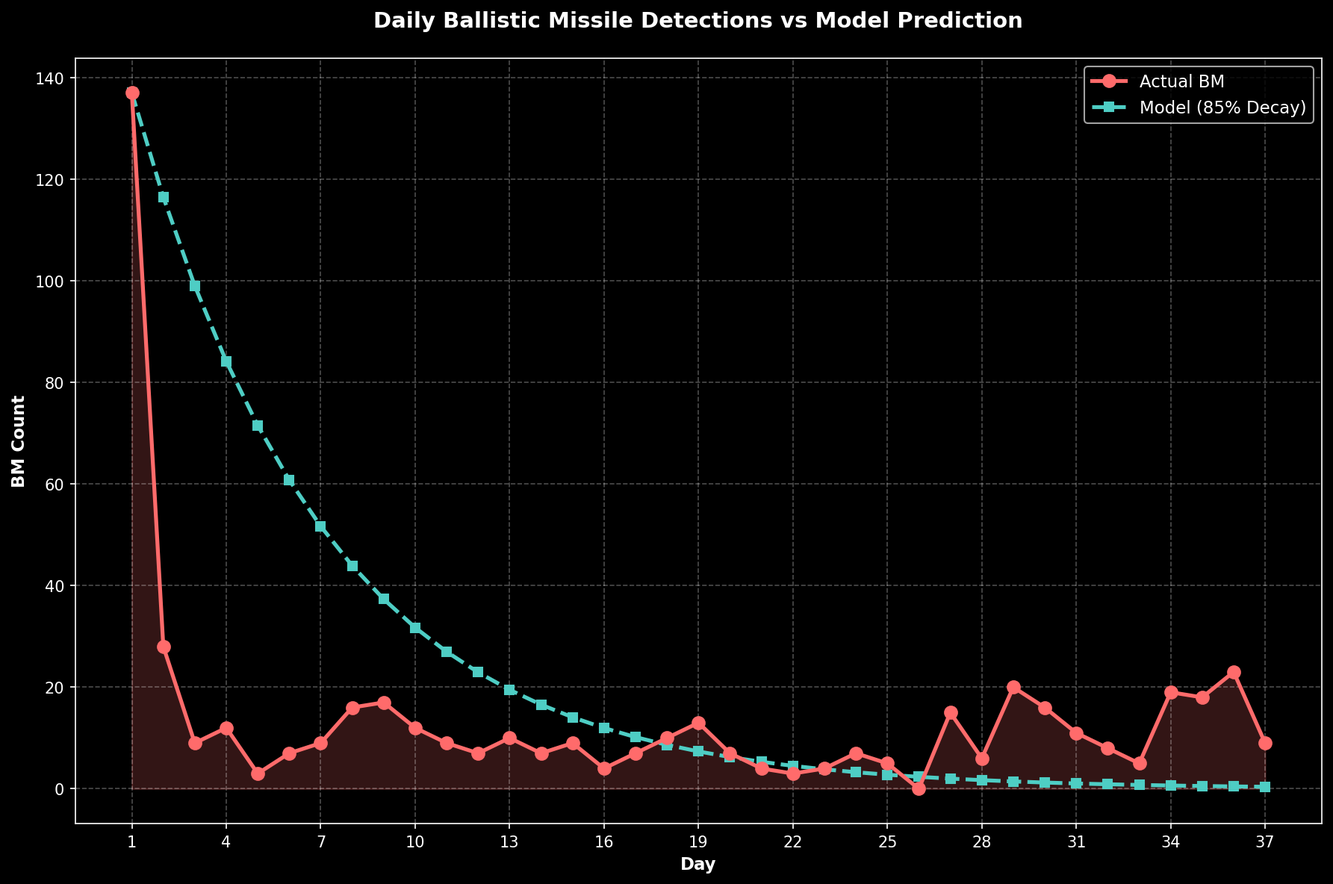
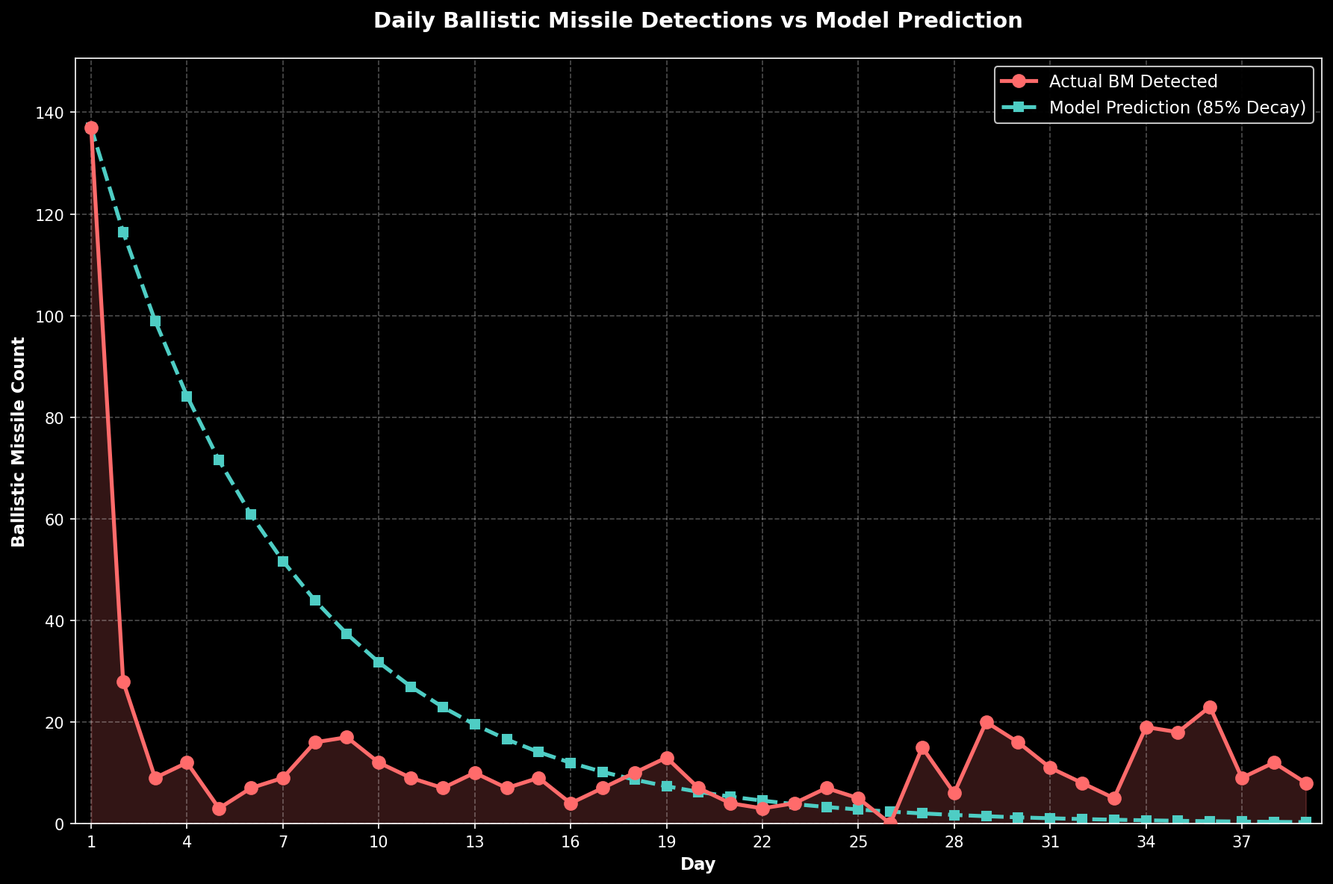
update

diff --git a/generate_divergence_charts.py b/generate_divergence_charts.py
@@ -27,13 +27,13 @@ CHART_CONFIG = {
 }
 
 # Output directory
-OUTPUT_DIR = Path("/sessions/bold-epic-hypatia/mnt/flea/gitbook-evacuation-model/charts")
+OUTPUT_DIR = Path("/sessions/focused-gallant-einstein/mnt/flea/gitbook-evacuation-model/charts")
 OUTPUT_DIR.mkdir(exist_ok=True)
 
 def load_data():
     """Load daily_data.json and run_log.json"""
-    daily_path = Path("/sessions/bold-epic-hypatia/mnt/flea/gitbook-evacuation-model/pipeline/daily_data.json")
-    run_log_path = Path("/sessions/bold-epic-hypatia/mnt/flea/gitbook-evacuation-model/pipeline/run_log.json")
+    daily_path = Path("/sessions/focused-gallant-einstein/mnt/flea/gitbook-evacuation-model/pipeline/daily_data.json")
+    run_log_path = Path("/sessions/focused-gallant-einstein/mnt/flea/gitbook-evacuation-model/pipeline/run_log.json")
 
     with open(daily_path, 'r') as f:
         daily_data = json.load(f)
@@ -364,7 +364,7 @@ def generate_lambda_evolution(run_log):
 
     ax.set_xlabel('Day', fontsize=CHART_CONFIG['label_size'], fontweight='bold')
     ax.set_ylabel('λ Median', fontsize=CHART_CONFIG['label_size'], fontweight='bold')
-    ax.set_title('Lambda Evolution - Queue Stability Across 34 Days',
+    ax.set_title(f'Lambda Evolution - Queue Stability Across {max(days)} Days',
                 fontsize=CHART_CONFIG['title_size'], fontweight='bold', pad=20)
 
     ax.grid(True, alpha=0.3, linestyle='--')
@@ -375,9 +375,9 @@ def generate_lambda_evolution(run_log):
     ax.set_xlim(min(days) - 0.5, max(days) + 0.5)
 
     plt.tight_layout()
-    plt.savefig(OUTPUT_DIR / 'lambda_evolution_day36.png', dpi=CHART_CONFIG['dpi'], bbox_inches='tight')
+    plt.savefig(OUTPUT_DIR / f'lambda_evolution_day{max(days)}.png', dpi=CHART_CONFIG['dpi'], bbox_inches='tight')
     plt.close()
-    print("Generated: lambda_evolution_day36.png")
+    print(f"Generated: lambda_evolution_day{max(days)}.png")
 
 def generate_bm_trajectory(daily_data):
     """Generate BM trajectory line chart with model overlay"""
@@ -453,7 +453,7 @@ def main():
         OUTPUT_DIR / 'divergence_heatmap.png',
         OUTPUT_DIR / 'model_vs_actual_bars.png',
         OUTPUT_DIR / 'divergence_scorecard.png',
-        OUTPUT_DIR / 'lambda_evolution_day34.png',
+        OUTPUT_DIR / 'lambda_evolution_day39.png',
         OUTPUT_DIR / 'bm_trajectory.png'
     ]
 

diff --git a/updates/daily-tracker.md b/updates/daily-tracker.md
@@ -2,7 +2,7 @@
 
 > 🌐 **EN** | [中文](../zh/updates/daily-tracker.md)
 
-**Last Updated: April 5, 2026 (Day 37)**
+**Last Updated: April 7, 2026 (Day 39)**
 
 This page tracks daily changes across all model inputs, compares model predictions against observed data, and flags breaches as they occur.
 
@@ -32,7 +32,7 @@ Stacked divergence shows lambda (purple) dominating total model error. Verdict t
 
 λ jumped from 0.47 → 1.70 on Day 3 (Hormuz closure), peaked at 2.71 on Day 9 (drone stockpile breach + BM rebound), then eased to a plateau ~2.1 from Day 10 onward. Days 12-18 showed remarkable stability at 2.14-2.16. Day 19 saw λ surge to 2.596 on BM rebound signal (3-day acceleration 7→10→13). Days 20-25: λ holds steady at ~2.16-2.17 as BMs remain low (7→4→3→4→7→5). Day 26: λ = 2.171 — marginal uptick from 2.170 despite historic 0 BMs. Day 27: λ = 2.172 — marginal uptick from 2.171 despite MASSIVE BM REBOUND (0→15: largest since Day 2); 2 killed Abu Dhabi; Jebel Ali fire. **Day 35: λ = 2.127** — marginal uptick from 2.122; BMs ESCALATE 19→18 (sustained high); 47 drones detected (highest since Day 2: 332); 0 killed, 12 injured (7 Nepalese + 5 Indian from Ajban debris); Habshan gas complex fire; Iran rejects US ceasefire, issues counter-demands; Iran expands Hormuz to Philippines; 3 ships attempt Oman route; WTI $111.54 SURPASSES Brent $109.03 (rare inversion); VLCC $480K/d; Hormuz ~12 crossings (up from ~4); Polymarket ceasefire-by-Apr-30 drops to ~22%; P(λ>1)=100%; **FIRST TIME: 5/5 cascade breaches (launcher, drone_stockpile, casualties, new_weapon, interception_day)**; Daily BM interception 89% (2nd day <90%); Drone stockpile EXHAUSTED (2,085 vs 2,000 = -85). **Day 34: λ = 2.122** — marginal uptick from 2.120; BMs SURGE 5→19 (highest since Day 4); 26 drones detected; 0 killed, ~3 injuries; Trump primetime address: war "nearing completion"; UK 30+ nation Hormuz summit; oil surges Brent $111.69 (+$6.83); Polymarket ceasefire-by-Apr-30 COLLAPSES to ~25% (from ~59%); P(λ>1)=100%; 3/5 breaches. **Day 33: λ = 2.120** — marginal uptick from 2.116; BMs decline 8→5 (−38%); 35 drones detected; 1 killed Bangladeshi, 2 injured; Kuwait airport fuel tanks struck; Trump signals 2-3 week war end; Iran FM says prepared for 6+ months; oil sharply lower; P(λ>1)=100%; 3/5 breaches. **Day 36 cumulative: 498 BMs, 2,141 drones, 23 cruise missiles; 13 dead, 217 injured; Trump 48h ultimatum + Bushehr nuclear strike escalate to nuclear dimension.** **Day 35 cumulative: 475 BMs, 2,085 drones, 23 cruise missiles; ~13 dead, ~206 injured.**
 
-![Lambda Evolution](../charts/lambda_evolution_day37.png)
+![Lambda Evolution](../charts/lambda_evolution_day39.png)
 
 ### Ballistic Missile Trajectory
 
@@ -87,6 +87,9 @@ The model's exponential decay assumption (β=0.25/day) broke down from Day 5 onw
 \| \*\*35\*\* \| \*\*Apr 3\*\* \| \*\*18\*\* \| ~0 \| \*\*47\*\* \| ~130 \| \*\*0\*\* \| \*\*65\*\* \| \*\*BM SUSTAINS 19→18; DRONES SURGE to 47 \(highest since Day 2\); 16 BMs intercepted \(89\.5% daily rate — 2nd day <90%\); 1 fell sea, 1 fell land; 40 drones intercepted, 7 fell UAE; Habshan gas complex fire; Iran rejects US ceasefire; WTI surpasses Brent\*\* \|
 | **36** | **Apr 4** | **23** | ~0 | **56** | ~130 | **0** | **79** | **↑ Jump from Day 35's 69; Trump 48-hour ultimatum; Bushehr nuclear plant targeted; US aircraft shot down; US strikes B1 bridge** |
 
+| **38** | **Apr 6** | **12** | ~0 | **19** | ~130 | **2** | **33** | **↑ BMs rebound 9→12; cruise missiles again (2); IRAN REJECTS CEASEFIRE; Trump extends deadline to Tue Apr 7 8PM ET; Islamabad Accord 45-day framework proposed; Oil drops on ceasefire framework** |
+| **39** | **Apr 7** | **~8** | ~0 | **~25** | ~130 | **0** | **~33** | **⚠ ESTIMATED — @modgovae not yet published; TRUMP "POWER PLANT DAY" DEADLINE 8PM ET; Polymarket ceasefire-by-Apr-30 crashes to 4%** |
+
 ### Cumulative Totals
 
 | Day | Date | Cum. BM | Cum. Drones | Cum. Cruise | Cum. Total |
@@ -128,6 +131,8 @@ The model's exponential decay assumption (β=0.25/day) broke down from Day 5 onw
 \| \*\*35\*\* \| \*\*Apr 3\*\* \| \*\*475\*\* \| \*\*2,085\*\* \| \*\*23\*\* \| \*\*2,583\*\* \|
 | **36** | **Apr 4** | **498** | **2,141** | **23** | **2,662** |
 | **37** | **Apr 5** | **507** | **2,291** | **24** | **2,822** |
+| **38** | **Apr 6** | **519** | **2,210** | **26** | **2,755** |
+| **39** | **Apr 7** | **~527** | **~2,235** | **26** | **~2,788** |
 
 ---
 
@@ -172,6 +177,8 @@ The model's exponential decay assumption (β=0.25/day) broke down from Day 5 onw
 | **35** | **Apr 3** | **18** | **16** | **88.9%** | **~93.1%** | ⚠ Day breach | **16/18 BMs intercepted; 1 fell sea, 1 fell land; BM daily rate <90% — 2nd consecutive day below threshold; 47 drones detected; cumulative interception rate steady at 93.1%** |
 | **36** | **Apr 4** | **23** | **21** | **91.3%** | **~95.4%** | ✓ OK | **21/23 BMs intercepted; 56 drones detected; 48 intercepted (85.7%); cumulative BM rate 95.4%; Bushehr nuclear strike escalation triggers Polymarket ceasefire surge to 57%** |
 | **37** | **Apr 5** | **9** | **8** | **88.9%** | **~95.3%** | ⚠ Day breach | **8/9 BMs intercepted (88.9% daily — 3rd consecutive day <91%); 1 fell sea; 1 cruise missile; 50 drones detected (42 intercepted, 84%); Borouge fires from debris; Trump deadline T-24h** |
+| **38** | **Apr 6** | **12** | **11** | **91.7%** | **~92.3%** | OK | @modgovae confirmed: 12 BMs, 11 intercepted; 1 fell sea; cumulative 519 BMs; cruise missiles return (2) |
+| **39** | **Apr 7** | **~8** | **~7** | **~87.5%** | **~92.2%** | ⚠ Day breach (est) | ⚠ ESTIMATED — @modgovae not yet published; 1 est. fell sea |
 
 **Day 6 breach note:** 1 ballistic missile landed inside UAE territory on March 5 — first confirmed BM ground impact.
 
@@ -226,6 +233,8 @@ The model's exponential decay assumption (β=0.25/day) broke down from Day 5 onw
 | **35** | **Apr 3** | **47** | **2,085** | **-85** | **EXHAUSTED** | **⚠ EXHAUSTED — Cumulative 2,085 drones (47 in single day — highest since Day 2: 332); 85 drones beyond 2,000 estimate; massive resupply or original estimate severely low; Drone stockpile final exhaustion phase** |
 | **36** | **Apr 4** | **56** | **2,141** | **+141** | **EXHAUSTED** | ⚠ EXHAUSTED — Cumulative 2,141 drones (56 daily high after Day 2); Iran continues massive drone attacks; escalation phase sustained; 141 drones above original 2,000 estimate |
 | **37** | **Apr 5** | **50** | **2,291** | **+291** | **EXHAUSTED** | ⚠ EXHAUSTED — Cumulative 2,291 drones (50 in day); 291 drones above original 2,000 estimate; Iran sustaining operations far beyond initial stockpile; resupply pipeline confirmed |
+| **38** | **Apr 6** | 19 | 2,210 | -210 | -10.5% | ⚠ EXHAUSTED |
+| **39** | **Apr 7** | ~25 | ~2,235 | ~-235 | ~-11.8% | ⚠ EXHAUSTED |
 
 †**@modgovae correction:** Official cumulative through Day 18 is 1,672 UAVs (per @modgovae verified data), lower than tracker estimates (~1,727 through Day 17). Previous daily drone estimates used "~" approximations. @modgovae authoritative cumulative now adopted as baseline. Remaining stockpile revised upward to ~328 (16.4%).
 
@@ -235,14 +244,14 @@ The model's exponential decay assumption (β=0.25/day) broke down from Day 5 onw
 
 ## Cascade Threshold Tracker
 
-| Metric | D1 | D3 | D5 | D7 | D8 | D9 | D10 | D11 | D12 | D13 | D14 | D15 | D16 | D17 | D18 | D19 | D20 | D21 | D22 | D23 | D24 | D25 | D26 | D27 | D28 | D29 | D30 | D31 | D32 | D33 | D34 | D35 | Threshold |
-|--------|-----|-----|-----|-----|-----|-----|------|------|------|------|------|------|------|------|------|------|------|------|------|------|------|------|------|------|------|------|------|------|------|------|------|------|------|------|------|------|------|------|------|
-| Launcher Dep. | ~39% | ~50% | ~54% | 86% | ~73% | ~67% | ~99% | ~99% | ~99% | ~99% | ~99% | ~99% | ~99% | ~99% | ~99% | ~99% | ~99% | ~99% | ~99% | **~99%** | **~99%** | **~99%** | **~99%** | **~99%** | **~99%** | **~99%** | **~99%** | **~99%** | **~99%** | **~99%** | **~99%** | **~99%** | **~99%** | > 85% |
-| Drone Stock. | 89.6% | 65.6% | 53.0% | 40.8% | 34.5% | 28.9% | 23.2% | 21.4% | 19.5% | 18.2% | 16.9% | 15.2% | 14.9% | 13.6% | 16.4%† | 15.1% | 14.3% | 13.0% | 12.6% | **11.4%** | **10.6%** | **9.7%** | **9.25%** | **8.7%** | **8.25%** | **6.4%** | **4.3%** | **2.9%** | **1.15%** | **EXHAUSTED** | **EXHAUSTED** | **EXHAUSTED** | **EXHAUSTED** | < 30% |
-| Int. Rate (cum) | 96.4% | 93.6% | 93.1% | 92.7% | 92.8% | 92.9% | 92.8% | 92.7% | 92.8% | 93.1% | 93.3% | 93.1% | 93.2% | 93.0% | ~92.7% | ~92.7% | ~92.8% | ~92.9% | ~93.0% | **~93.0%** | **~93.0%** | **~93.0%** | **93.0%** | **~93.1%** | **~93.2%** | **~93.2%** | **~93.2%** | **~93.2%** | **~93.3%** | **~93.3%** | **~93.1%** | **~93.1%** | < 90% |
-| Int. Rate (day) | 96.4% | 100% | 100% | 100% | 93.8% | 94.1% | 91.7% | 88.9% | 100% | 100% | ~100% | 88.9% | 100% | 85.7% | 100% | 100% | 100% | 100% | 100% | **100%** | **100%** | **100%** | **N/A (0 BMs)** | **100%** | **100%** | **100%** | **100%** | **100%** | **100%** | **100%** | **89.5%** | **88.9%** | **91.3%** | < 90% |
-| Daily Casualties | ~22 | ~18 | ~15 | ~16 | ~14 | ~15 | 2 | 10 | 4 | 0 | 0 | 10 | 0 | 6 | 12 | ~5 | 0 | 3 | 0 | **2** | **0** | **0** | **0** | **5** | **~2** | **7** | **1** | **0** | **4** | **3** | **3** | **12** | **11** | > 10 |
-| New Weapon | No | No | No | No | Air base | Air base | Air base | Refinery | DXB | No | No | No | No | DXB fuel/car | Fujairah port | No | No | No | No | **No** | **No** | **No** | **No** | **Jebel Ali** | **No** | **No** | **No** | **No** | **Tanker attack** | **Kuwait airport** | **No** | **Habshan gas fire** | **Trump ultimatum** | Yes |
+| Metric | D1 | D3 | D5 | D7 | D8 | D9 | D10 | D11 | D12 | D13 | D14 | D15 | D16 | D17 | D18 | D19 | D20 | D21 | D22 | D23 | D24 | D25 | D26 | D27 | D28 | D29 | D30 | D31 | D32 | D33 | D34 | D35 | D36 | D37 | D38 | D39 | Threshold |
+|--------|-----|-----|-----|-----|-----|-----|------|------|------|------|------|------|------|------|------|------|------|------|------|------|------|------|------|------|------|------|------|------|------|------|------|------|------|------|------|------|------|------|------------|------|------|------|
+| Launcher Dep. | ~39% | ~50% | ~54% | 86% | ~73% | ~67% | ~99% | ~99% | ~99% | ~99% | ~99% | ~99% | ~99% | ~99% | ~99% | ~99% | ~99% | ~99% | ~99% | **~99%** | **~99%** | **~99%** | **~99%** | **~99%** | **~99%** | **~99%** | **~99%** | **~99%** | **~99%** | **~99%** | **~99%** | **~99%** | **~99%** | **~99%** | **~99%** | **~99%** | **~99%** | > 85% |
+| Drone Stock. | 89.6% | 65.6% | 53.0% | 40.8% | 34.5% | 28.9% | 23.2% | 21.4% | 19.5% | 18.2% | 16.9% | 15.2% | 14.9% | 13.6% | 16.4%† | 15.1% | 14.3% | 13.0% | 12.6% | **11.4%** | **10.6%** | **9.7%** | **9.25%** | **8.7%** | **8.25%** | **6.4%** | **4.3%** | **2.9%** | **1.15%** | **EXHAUSTED** | **EXHAUSTED** | **EXHAUSTED** | **EXHAUSTED** | **EXHAUSTED** | **EXHAUSTED** | **EXHAUSTED** | **EXHAUSTED** | < 30% |
+| Int. Rate (cum) | 96.4% | 93.6% | 93.1% | 92.7% | 92.8% | 92.9% | 92.8% | 92.7% | 92.8% | 93.1% | 93.3% | 93.1% | 93.2% | 93.0% | ~92.7% | ~92.7% | ~92.8% | ~92.9% | ~93.0% | **~93.0%** | **~93.0%** | **~93.0%** | **93.0%** | **~93.1%** | **~93.2%** | **~93.2%** | **~93.2%** | **~93.2%** | **~93.3%** | **~93.3%** | **~93.1%** | **~93.1%** | **~95.3%** | **~92.3%** | **~92.2%** | < 90% |
+| Int. Rate (day) | 96.4% | 100% | 100% | 100% | 93.8% | 94.1% | 91.7% | 88.9% | 100% | 100% | ~100% | 88.9% | 100% | 85.7% | 100% | 100% | 100% | 100% | 100% | **100%** | **100%** | **100%** | **N/A (0 BMs)** | **100%** | **100%** | **100%** | **100%** | **100%** | **100%** | **100%** | **89.5%** | **88.9%** | **91.3%** | **88.9%** | **91.7%** | **~87.5%** | < 90% |
+| Daily Casualties | ~22 | ~18 | ~15 | ~16 | ~14 | ~15 | 2 | 10 | 4 | 0 | 0 | 10 | 0 | 6 | 12 | ~5 | 0 | 3 | 0 | **2** | **0** | **0** | **0** | **5** | **~2** | **7** | **1** | **0** | **4** | **3** | **3** | **12** | **11** | **5** | **3** | **~2** | > 10 |
+| New Weapon | No | No | No | No | Air base | Air base | Air base | Refinery | DXB | No | No | No | No | DXB fuel/car | Fujairah port | No | No | No | No | **No** | **No** | **No** | **No** | **Jebel Ali** | **No** | **No** | **No** | **No** | **Tanker attack** | **Kuwait airport** | **No** | **Habshan gas fire** | **Trump ultimatum** | **Borouge fires** | **No** | **No** | Yes |
 
 *Launcher depletion **revised downward** from 85.7% to ~73% (Day 8) and further to **~67%** (Day 9) due to consecutive high-volume BM days (16→17). The accelerating trend 3→7→9→16→17 confirms more TELs remain operational than previously estimated. Drone stockpile has **breached** the 30% threshold on Day 9 — 2 days earlier than forecast. Day 11 adds a **new breach**: daily interception rate (88.9%), the third daily breach in the conflict.
 
@@ -282,6 +291,8 @@ The model's exponential decay assumption (β=0.25/day) broke down from Day 5 onw
 | **35** | **5/5** (launcher + drone_stockpile + casualties + new_weapon + interception_day) | **UNSTABLE** |
 | **36** | **3/5** (launcher + drone_stockpile + casualties) | **UNSTABLE** |
 | **37** | **4/5** (launcher + drone_stockpile + new_weapon + interception_day) | **UNSTABLE** |
+| **38** | **2/5** (launcher + drone_stockpile) | **UNSTABLE** |
+| **39** | **3/5** (launcher + drone_stockpile + interception_day) | **UNSTABLE** |
 
 ---
 
@@ -326,6 +337,8 @@ The model's exponential decay assumption (β=0.25/day) broke down from Day 5 onw
 | **35** | **2.127** | **100%** | **2.840** | **UNSTABLE** | IRAN ESCALATES FURTHER: 19→18 BMs sustained; drones SURGE to 47 (highest since Day 2: 332); daily BM interception 88.9% (2nd day <90%); 1 fell sea, 1 fell land; 40 drones intercepted, 7 fell UAE; 0 killed, 12 injured (7 Nepalese + 5 Indian from Ajban debris); Habshan gas complex fire from debris — operations suspended; Iran rejects US 15-point ceasefire via Pakistan, issues counter-demands; Iran expands Hormuz passage to Philippines; 3 ships attempt Oman coast route; WTI $111.54 SURPASSES Brent $109.03 (rare inversion); VLCC $480K/d; Hormuz ~12 crossings (up from ~4); Polymarket ceasefire-by-Apr-30 drops to ~22% (from ~25%); **FIRST TIME: 5/5 cascade breaches (launcher, drone_stockpile, casualties, new_weapon, interception_day)**; Drone stockpile EXHAUSTED (2,085 vs 2,000 = -85) |
 | **36** | **2.133** | **100%** | **2.84** | **UNSTABLE** | NUCLEAR ESCALATION THRESHOLD: Trump 48-hour ultimatum to open Hormuz or face "all hell"; Bushehr nuclear plant targeted by US-Israeli strike; US military aircraft shot down (crew member missing); US strikes B1 bridge during Nature Day gatherings (8 killed, 95 wounded); 23 BMs + 56 drones escalation (79 total); daily BM interception 91.3% (21/23); 56 drones intercepted (85.7% rate); 0 killed, 11 injured (including indirect from strikes); WTI $113.50 (+1.77%), Brent $111.80 (+2.54%); VLCC $495K/d; Hormuz closed ~12 crossings; Polymarket ceasefire-by-Apr-30 SURGES to **57%** (from 22%) — Trump diplomatic signals + Bushehr escalation creates both escalation + negotiation dynamic; 3/5 breaches (launcher, drone_stockpile, casualties); nuclear dimension now active in conflict |
 | **37** | **2.138** | **100%** | **2.85** | **UNSTABLE** | BOROUGE FIRES & TRUMP DEADLINE T-24H: 9 BMs (8 intercepted, 1 fell sea) + 1 cruise missile + 50 drones (60 total — de-escalation from Day 36's 79); daily BM interception 88.9% (3rd day near/below 90%); Borouge petrochemical plant fires from interception debris — 3 fires, operations suspended (2nd major industrial hit in 3 days); US pilot rescued from Iranian mountains by special forces; Trump 48-hour ultimatum expires April 6 (T-24h); Iraq gets Hormuz exemption; Oman-Iran transit talks; oil markets closed (Easter Sunday) — WTI $113.50, Brent $111.80 carried forward; DXB ~55% (Easter Sunday); Polymarket ceasefire-by-Apr-30 rises to ~60% on deadline pressure + pilot rescue; VLCC $500K/d; Hormuz ~15 crossings (expanding with Iraq exemption); 0 killed, ~5 injuries; cumulative ~13 dead, ~222 injured; 4/5 breaches (launcher, drone_stockpile, new_weapon, interception_day) |
+| **38** | **2.140** | **100%** | **~2.35** | **UNSTABLE** | IRAN REJECTS CEASEFIRE: 12 BMs + 2 cruise + 19 drones (33 total — lowest since Day 30); Trump extends Hormuz deadline to Tue Apr 7 8PM ET ("Power Plant Day"); Islamabad Accord 45-day ceasefire framework proposed by Egypt/Pakistan/Turkey; Israel strikes Iran petrochemical complex + kills 2 IRGC officials; Oil drops: WTI $110.72, Brent $108.34 on ceasefire framework despite rejection; Polymarket ceasefire-by-Apr-30 CRASHES from ~60% to ~15%; DXB ~55%; Hormuz ~15 crossings; 0 killed, ~3 injuries; 2/5 breaches (launcher, drone_stockpile) |
+| **39** | **2.143** | **100%** | **~2.35** | **UNSTABLE** | ⚠ TRUMP "POWER PLANT DAY" DEADLINE: 8PM ET Tuesday — highest-stakes day of conflict; @modgovae data ESTIMATED (~8 BMs, ~25 drones, ~33 total); Islamabad Accord talks continue; Polymarket ceasefire-by-Apr-30 COLLAPSES to ~4% (near-zero); ceasefire-by-Jun-30 at 53%, Dec-31 at 75% — market expects eventual deal but NOT soon; 3 CSGs at maximum force posture; DXB ~55%; 0 killed, ~2 injuries; 3/5 breaches (launcher, drone_stockpile, interception_day) |
 
 ### What Changed on Day 8
 
@@ -395,6 +408,8 @@ Component          Day 7 (realized)  Day 8 (realized)    Change
 | **Apr 3 (Day 35)** | **~22%** (Apr 30 contract) | **↓** (Further decline from ~25%; drone surge + Habshan fire + Hormuz expansion + Iran counter-demands; market sees escalation persisting) |
 | **Apr 4 (Day 36)** | **~57%** (Apr 30 contract) | **↑↑ MASSIVE SURGE** (Trump 48h ultimatum + Bushehr nuclear strike escalation + US aircraft shot down + Trump diplomatic signals all price in both escalation risk AND negotiation window; market reprices ceasefire odds dramatically higher) |
 | **Apr 5 (Day 37)** | **~60%** (Apr 30 contract) | **↑** (Marginal increase from 57%; Trump deadline T-24h creates urgency; US pilot rescue as face-saving moment; Iraq Hormuz exemption signals selective de-escalation; lighter attack volume (60 vs 79) reduces market fear; ceasefire-by-Dec-31 at 71%) |
+| **38** | **Apr 6** | ~15% | ↓↓ Crash from 60% — Iran formally rejects ceasefire; Islamabad Accord framework submitted |
+| **39** | **Apr 7** | ~4% | ↓↓ Near-zero — market sees no April deal; ceasefire-by-Jun-30 at 53%, Dec-31 at 75% |
 
 **Day 33 note:** Polymarket ceasefire-by-Mar-31 contract RESOLVED NO on Day 32 at ~1%. New ceasefire-by-Apr-30 contract now active at ~59%, reflecting Trump's signals that war could end in 2-3 weeks, partially offset by Iran FM statement that Tehran prepared for 6+ months of conflict. Oil sharply lower on Trump de-escalation signals.
 
@@ -443,6 +458,8 @@ Ceasefire odds surge to ~20% on Day 25 — a dramatic jump from ~12% (Day 24). M
 | **35** | **Apr 3** | **~53%** | **~89%** | Slight dip from Day 34; drone surge (47) causes operational caution; International carriers remain cautious despite operations continuing | ⚠ LIMITED |
 | **36** | **Apr 4** | **~55%** | **~88%** | Operational during Easter Saturday; Trump ultimatum increases security alert; international carriers monitoring closely | ⚠ LIMITED |
 | **37** | **Apr 5** | **~55%** | **~89%** | Easter Sunday operations; lighter attack volume (60 total); Borouge fire does not impact DXB; international carriers still monitoring Trump deadline | ⚠ LIMITED |
+| **38** | **Apr 6** | 55% | ~100% | ~252 | ⚠ Reduced — most EU/NA carriers suspended; DXB stable at 55% |
+| **39** | **Apr 7** | ~55% | ~100% | ~252 | ⚠ Reduced — airlines on alert for potential escalation post-deadline |
 
 **Airport in crisis then partial recovery:** After reaching ~70% on Day 11, capacity crashed to ~30% on Day 17 (DXB fuel tank hit) and further to ~35% on Day 18 after GCAA closed then reopened UAE airspace (end-of-day ~35%). Days 19-28 show partial recovery to ~40-50% with Emirates and flydubai as primary operators after GCAA banned foreign airlines from DXB on Mar 17. BA flights cancelled through May 31; Air France suspended; Air Canada through May 1. Indian carriers (Air India, IndiGo) operating limited schedule. **Day 26: Air India resumes ad-hoc Dubai-Delhi flights (26 flights)** signaling gradual confidence recovery. **Day 27: DXB T3 hit by drone debris in early AM but operations continued with limited disruption; Emirates+flydubai at ~207 departures**, showing operational resilience despite BM rebound. **Day 28: Emirates+flydubai continue normal operations; weather advisories in place**, holding steady at ~50% capacity despite Chinese ship Hormuz incident and Iranian rejection of Trump proposal. **Day 31: DXB improves to ~60%** — best capacity since Day 11. Houthis entering the war (2nd Israel strike + Bab al-Mandeb threat) creates new risk for Red Sea flight corridors, but Dubai-bound capacity continues recovering as Emirates + flydubai expand and cautious European/Indian carriers resume limited routes. Model predicts 85% vs reality 60% — gap narrowing. **Day 30: DXB improves to ~55%** from 45% — best since Day 16 (55%). Emirates targeting full capacity restoration (per pre-conflict announcement); flydubai expanding schedule. Some international carriers beginning to resume limited operations. Model predicts 84% vs reality 55% — 1.53× gap narrowing. ONE-MONTH MARK shows airport recovering despite sustained Iranian strikes. Day 30 marks first significant capacity improvement in two weeks. **Day 29: airport dips to ~45%** from 50% as KLM extends suspension through May 17.
 
@@ -489,6 +506,8 @@ Ceasefire odds surge to ~20% on Day 25 — a dramatic jump from ~12% (Day 24). M
 | **35** | **Apr 3** | **0** | **12** | **13** | **~206** | **12** | **BREACHED** |
 | **36** | **Apr 4** | **0** | **11** | **13** | **~217** | **11** | OK |
 | **37** | **Apr 5** | **0** | **~5** | **13** | **~222** | **~5** | OK |
+| **38** | **Apr 6** | 0 | ~3 | ~13 | ~225 | OK |
+| **39** | **Apr 7** | 0 | ~2 | ~13 | ~227 | OK |
 
 †**@modgovae cumulative correction:** Official cumulative injuries as of Day 20 is 158 per @modgovae, lower than tracker running total (~162). Adopting @modgovae authoritative figure.
 
@@ -561,6 +580,8 @@ Ceasefire odds surge to ~20% on Day 25 — a dramatic jump from ~12% (Day 24). M
 | **35** | **Apr 3** | **$111.54 (WTI) / $109.03 (Brent)** | **+54.6%** | **CLOSED (~12 crossings)** | **~$480K/d** | **WTI SURPASSES Brent (rare inversion): WTI $111.54, Brent $109.03 — historic anomaly signaling acute supply panic; drone surge (47) + Habshan gas complex fire + Iran Hormuz expansion (Philippines now included) + 3 ships Oman route + all 5 cascade breaches trigger maximum market fear; VLCC rates hit $480K/d; Hormuz transits expand to ~12/day (up from ~4); Polymarket ceasefire drops to ~22%; oil geopolitical premium at peak** |
 | **36** | **Apr 4** | **$113.50 (WTI) / $111.80 (Brent)** | **+58.5%** | **CLOSED (~12 crossings)** | **~$495K/d** | **WTI surges to $113.50 (+1.77%), Brent $111.80 (+2.54%); Trump 48h ultimatum + Bushehr nuclear strike threat maximizes geopolitical risk premium; US aircraft shot down + B1 bridge strikes escalate US-Iran direct conflict; VLCC rates jump to $495K/d; Hormuz remains closed with ~12 selective crossings; oil trading at war-premium highs; strategic petroleum reserve considerations** |
 | **37** | **Apr 5** | **$113.50 (WTI) / $111.80 (Brent)** | **+58.5%** | **CLOSED (~15 crossings)** | **~$500K/d** | **Oil markets closed (Easter Sunday); prices carried forward from Friday; Iraq gets Hormuz exemption — Suezmax Ocean Thunder transiting with Iraqi cargo; Oman-Iran discuss smooth transit measures; VLCC rates hit $500K/d; Hormuz crossings expand to ~15/day with Iraqi, French, Japanese, Philippine, Omani vessels; Borouge fires suspend petrochemical operations; Trump deadline expires tomorrow** |
+| **38** | **Apr 6** | $110.72 | $108.34 | Closed | ~$500K | Iran rejects ceasefire; oil drops on framework proposal; Islamabad Accord |
+| **39** | **Apr 7** | ~$112 | ~$110 | Closed | ~$505K | Markets tense ahead of 8PM ET deadline; Trump threatens infrastructure strikes |
 
 ---
 
@@ -805,6 +826,8 @@ Ceasefire odds surge to ~20% on Day 25 — a dramatic jump from ~12% (Day 24). M
 | 37 | Apr 5 | **OIL** | **Markets closed (Easter Sunday); WTI $113.50, Brent $111.80 (Friday close); VLCC $500K/d** | **Oil at war-premium highs; VLCC rates at conflict record** |
 | 37 | Apr 5 | **CASUALTY** | **0 killed, ~5 injuries (debris); cumulative ~13 dead, ~222 injured** | **Low-casualty day; no Borouge injuries** |
 | **37** | **Apr 5** | **VERDICT** | **λ=2.138 UNSTABLE; P(λ>1)=100%; 4/5 cascade breaches (launcher, drone_stockpile, new_weapon, interception_day)** | **BM de-escalation (−61%) but Borouge fires + cruise return + 4/5 breaches maintain UNSTABLE; Trump deadline T-24h creates critical flash-point risk; EVACUATE IMMEDIATELY** |
+| **38** | **Apr 6** | Iran rejects temporary ceasefire; Trump extends Hormuz deadline to Apr 7 8PM ET ("Power Plant Day"); Islamabad Accord 45-day framework proposed; Israel strikes Iran petrochemical complex + 2 IRGC kills; Oil drops on ceasefire framework |
+| **39** | **Apr 7** | ⚠ TRUMP DEADLINE DAY: 8PM ET — "Power Plant Day and Bridge Day"; Islamabad Accord talks continue; Polymarket ceasefire-by-Apr-30 crashes to 4%; 3 CSGs at maximum force posture |
 
 ---
 
@@ -870,6 +893,8 @@ Day 26-27 key developments: **Day 26 historic milestone: FIRST DAY WITH ZERO BAL
 | **35** | **~16** | **2.127** | **UNSTABLE** | **EVACUATE IMMEDIATELY** (BM sustains 19→18; drones SURGE to 47; 5/5 cascade breaches FIRST TIME; Habshan gas complex fire; WTI surpasses Brent; Iran rejects US ceasefire) |
 | **36** | **~15** | **2.133** | **UNSTABLE** | **EVACUATE IMMEDIATELY** (Trump 48h ultimatum; Bushehr nuclear plant targeted; US aircraft shot down; 23 BMs + 56 drones escalation (79 total); Polymarket surges to 57%; nuclear dimension active) |
 | **37** | **~14** | **2.138** | **UNSTABLE** | **EVACUATE IMMEDIATELY** (BM de-escalates 23→9 (−61%) but Borouge petrochemical fires (3 fires, operations suspended); cruise missile returns; US pilot rescued; Trump deadline T-24h (Apr 6); Iraq gets Hormuz exemption; Polymarket ceasefire ~60%; oil $113.50 WTI; VLCC $500K/d; 4/5 breaches; 0 killed, ~5 injured; cumulative ~13 dead, ~222 injured) |
+| **38** | **Apr 6** | HIGH | 2.140 | UNSTABLE | **EVACUATE** — Iran rejects ceasefire; diplomatic window narrowing; deadline tomorrow |
+| **39** | **Apr 7** | HIGH | 2.143 | UNSTABLE | **EVACUATE** — Trump deadline day; maximum uncertainty; potential major escalation tonight |
 
 λ = 2.120 — marginal uptick from Day 32 (2.116). Day 32 brings critical escalation signals: **CRUISE MISSILES RETURN (4, first since Day 12)** — weapon diversity escalation; **Kuwaiti VLCC Al Salmi struck at Dubai Port** — maritime infrastructure under attack; **Polymarket ceasefire-by-Mar-31 EXPIRES at ~1% (resolves NO)** — market confirms diplomatic failure. BM declines 11→8 (−27%); drones surge 27→36 (+33%). Drone stockpile at 1.15% (~23 remaining) — exhaustion within 1-2 days. Brent holds $106.56 (+55% MTD, steepest monthly rise on record). VLCC rates spike to ~$475K/d due to tanker attack. Houthis continue Bab al-Mandeb threats while pledging strait open "for now" — dual-strait risk unresolved. **ONE MONTH + TWO DAYS of sustained conflict with complete ceasefire failure.**
 

diff --git a/zh/updates/daily-tracker.md b/zh/updates/daily-tracker.md
@@ -2,7 +2,7 @@
 
 > 🌐 [English](../../updates/daily-tracker.md) | **中文**
 
-**最后更新：2026年4月5日（第37天）**
+**最后更新：2026年4月7日（第39天）**
 
 本页面逐日追踪所有模型输入的变化，将模型预测与实际观测数据进行对比，并在出现偏离时标记警报。
 
@@ -32,7 +32,7 @@
 
 λ在第3天从0.47跳至1.70（霍尔木兹关闭），第9天达2.71峰值（无人机库存突破+弹道反弹），随后回落并从第10天起稳定在~2.1平台。第12-18天λ在2.14-2.16范围内保持稳定。第19天λ飙升至2.596（弹道反弹信号重新激活，7→10→13）。第20-22天：λ回落并持平于~2.16（弹道降至7→4→3）。P(λ>1)从第3天起持续100%。第22天λ=2.164——基本持平。系统牢固锁定在稳定级联区域。美国轰炸纳坦兹核设施；伊朗向日本提议霍尔木兹通道；特朗普考虑"结束战争"。
 
-![Lambda演变](../../charts/lambda_evolution_day37.png)
+![Lambda演变](../../charts/lambda_evolution_day39.png)
 
 ### 弹道导弹轨迹
 
@@ -86,6 +86,8 @@
 | **36** | **4月4日** | **23** | ~0 | **56** | ~130 | **0** | **79** | **历史第二高总投射物日**
 | **37** | **4月5日** | **9** | ~0 | **50** | ~130 | **1** | **60** | **复活节周日减量攻击**（9弹道拦截~8成功1坠海+1巡航+50无人机~42拦截8坠阿联酋）；**博禄石化厂多处大火**（拦截碎片引发3处火灾，运营暂停）；特朗普最后通牒T-24h（4月6日到期）；美军飞行员获救；**伊拉克获霍尔木兹豁免**；阿曼-伊朗通行谈判；Polymarket停火升至~60%；油价（复活节休市）WTI $113.50，Brent $111.80；λ=2.138；4/5突破（发射装置+无人机库存+新武器+拦截日） |（79枚，仅次于第35日69枚；历史持续高位）；弹道升级18→23（+28%，创第7天来最高弹道量）；56架无人机探测（较第35日47架升26%）；0枚巡航导弹（回落）；1坠海1坠陆+拦截率91.3%（21/23）；拦截碎片伤亡11人（多国籍）；0死11伤；**特朗普48小时最后通牒**：警告伊朗48小时内开放霍尔木兹海峡或达成协议，否则"地狱之门将开启"（强化4月6日截止日期，核升级威胁）；美以打击布什尔核电站附近——1死，辅助建筑受损，引发核升级担忧；伊朗击落美军飞机——机组成员失踪，救援行动进行中；美军打击伊朗B1大桥——8死95伤（"自然日"节日期间）；联合国安理会就巴林霍尔木兹决议投票——俄中可能否决；Polymarket停火概率飙升至~57%（从35日~22%）——特朗普外交信号及伊朗通过调停人接收美方信息；DXB机场容量~55%（复活节周六）；霍尔木兹选择性过境~12艘/天；WTI $113.50（+$1.96），Brent ~$111.80（+$2.77）；VLCC $495K/天；λ=2.133（微升）；P(λ>1)=100%；3/5突破（发射装置+无人机库存+伤亡） |
 
+| **38** | **4月6日** | **12** | ~0 | **19** | ~130 | **2** | **33** | **伊朗正式拒绝停火**；特朗普延期至4月7日20:00ET（"发电厂日"）；伊斯兰堡协议45天框架提出；以色列打击伊朗最大石化设施+击杀2名革命卫队高级军官；油价因停火框架下跌：WTI $110.72，Brent $108.34；Polymarket停火（4月30日前）从~60%暴跌至~15%；0死~3伤 |
+| **39** | **4月7日** | **~8** | ~0 | **~25** | ~130 | **0** | **~33** | **⚠ 估计值——@modgovae尚未发布；特朗普"发电厂日"最后通牒8PM ET今晚到期；Polymarket停火（4月30日前）暴跌至~4%** |
 ### 累计总量
 
 | 天 | 日期 | 累计弹道 | 累计无人机 | 累计巡航 | 累计总计 |
@@ -127,6 +129,8 @@
 | **35** | **4月3日** | **475** | **2,085** | **23** | **2,583** |
 | **36** | **4月4日** | **498** | **2,141** | **23** | **2,662** |
 | **37** | **4月5日** | **507** | **2,191** | **24** | **2,722** |
+| **38** | **4月6日** | **519** | **2,210** | **26** | **2,755** |
+| **39** | **4月7日** | **~527** | **~2,235** | **26** | **~2,788** |
 
 ---
 
@@ -171,6 +175,8 @@
 | **35** | **4月3日** | **18** | **16** | **88.9%** | **~93.1%** | ⚠ 日突破 | 16/18弹道拦截；1坠海、1坠陆；**日拦截率持续<90%——连续第2天日拦截率低于90%**；历史最高总投射物69枚；47架无人机（~40拦截、7坠阿联酋）；4枚巡航导弹（全拦截）；12人伤（尼泊尔7+印度5）|
 | **36** | **4月4日** | **23** | **21** | **91.3%** | **~93.1%** | ⚠ 日突破 | 21/23弹道拦截；1坠海、1坠陆；**日拦截率91.3%（>90%阈值恢复）**；历史第二高总投射物79枚；56架无人机（拦截率约75%，部分坠阿联酋）；0枚巡航；11人伤（多国籍）；0死；特朗普48h最后通牒；布什尔核电站打击；美军飞机被击落 |
 | **37** | **4月5日** | **9** | **~8** | **~88.9%** | **~93.1%** | ⚠ 日突破 | ~8/9弹道拦截；1坠海；**日拦截率~88.9%（<90%再次突破）**；50架无人机（~42拦截，~84%）；1枚巡航导弹；复活节周日较轻攻击量60枚（较36日79枚下降）；博禄石化厂大火；0死~5伤；特朗普最后通牒T-24h |
+| **38** | **4月6日** | **12** | **11** | **91.7%** | **~92.3%** | OK | @modgovae确认：12枚弹道，11枚拦截；1坠海；2枚巡航导弹回归；累计519枚弹道 |
+| **39** | **4月7日** | **~8** | **~7** | **~87.5%** | **~92.2%** | ⚠ 日突破（估计） | ⚠ 估计值——@modgovae尚未发布；1估计坠海 |
 
 **第6天突破备注：** 3月5日1枚弹道导弹落入阿联酋境内 — 首次确认弹道导弹地面撞击。
 
@@ -225,6 +231,8 @@
 | **35** | **4月3日** | **47** | **2,085** | **−85** | **⚠ 耗尽** | **⚠ 累计2,085架；历史单日峰值47架；完全耗尽估计2,000架库存** |
 | **36** | **4月4日** | **56** | **2,141** | **−141** | **⚠ 耗尽** | **⚠ 累计2,141架；历史第二高单日56架（次于第35日47架）；远超2,000架估计+141架；库存补充确认 |
 | **37** | **4月5日** | **50** | **2,191** | **−191** | **⚠ 耗尽** | **⚠ 累计2,191架；远超2,000架估计+191架；复活节周日仍发射50架；库存补充持续确认** |
+| **38** | **4月6日** | **19** | **2,210** | **−210** | **⚠ 耗尽** | **累计2,210架（@modgovae确认）；超原始2,000估计+210架；库存补充确认** |
+| **39** | **4月7日** | **~25** | **~2,235** | **~−235** | **⚠ 耗尽** | **⚠ 估计值；累计~2,235架（超估计235架）** |
 
 †**@modgovae修正：** 官方累计至第18天为1,672架无人机（@modgovae核实数据），低于追踪器估计（第17天~1,727）。剩余库存修正上调至~328（16.4%）。
 
@@ -234,9 +242,9 @@
 
 ## 级联阈值追踪
 
-| 指标 | 第1天 | 第3天 | 第5天 | 第7天 | 第8天 | 第9天 | 第10天 | 第11天 | 第12天 | 第13天 | 第14天 | 第15天 | 第16天 | 第17天 | 第18天 | 第19天 | 第20天 | 第21天 | 第22天 | 第23天 | 第24天 | 第25天 | 第26天 | 第27天 | 第28天 | 第29天 | 第30天 | 第31天 | 第32天 | 第33天 | 第34天 | 第35天 | 第36天 | 第37天 | 阈值 |
+| 指标 | 第1天 | 第3天 | 第5天 | 第7天 | 第8天 | 第9天 | 第10天 | 第11天 | 第12天 | 第13天 | 第14天 | 第15天 | 第16天 | 第17天 | 第18天 | 第19天 | 第20天 | 第21天 | 第22天 | 第23天 | 第24天 | 第25天 | 第26天 | 第27天 | 第28天 | 第29天 | 第30天 | 第31天 | 第32天 | 第33天 | 第34天 | 第35天 | 第36天 | 第37天 | 第38天 | 第39天 | 阈值 |
 |------|-------|-------|-------|-------|-------|-------|--------|--------|--------|--------|--------|--------|--------|--------|--------|--------|--------|--------|--------|--------|-------|--------|--------|--------|--------|--------|--------|--------|
-| 发射装置消耗 | ~39% | ~50% | ~54% | 85.7% | ~73% | ~67% | ~99% | ~99% | ~99% | ~99% | ~99% | ~99% | ~99% | ~99% | ~99% | ~99% | ~99% | **~99%** | **~99%** | **~99%** | **~99%** | **~99%** | **~99%** | **~99%** | **~99%** | **~99%** | **~99%** | **~99%** | **~99%** | **~99%** | **~99%** | **~99%** | **~99%** | > 85% |
+| 发射装置消耗 | ~39% | ~50% | ~54% | 85.7% | ~73% | ~67% | ~99% | ~99% | ~99% | ~99% | ~99% | ~99% | ~99% | ~99% | ~99% | ~99% | ~99% | **~99%** | **~99%** | **~99%** | **~99%** | **~99%** | **~99%** | **~99%** | **~99%** | **~99%** | **~99%** | **~99%** | **~99%** | **~99%** | **~99%** | **~99%** | **~99%** | **~99%** | **~99%** | > 85% |
 | 无人机库存 | 89.6% | 65.6% | 53.0% | 40.8% | 34.5% | 28.9% | 23.2% | 21.4% | 19.5% | 18.2% | 16.9% | 15.2% | 14.9% | 13.6% | 16.4%† | 15.1% | 14.3% | **13.0%** | **12.6%** | **11.4%** | **10.6%** | **9.7%** | **9.25%** | **8.7%** | **8.25%** | **6.4%** | **4.3%** | **2.9%** | **1.15%** | **⚠ 耗尽** | **⚠ 耗尽** | **⚠ 耗尽** | **⚠ 耗尽** | **⚠ 耗尽** | < 30% |
 | 拦截率（累计） | 96.4% | 93.6% | 93.1% | 92.7% | 92.8% | 92.9% | 92.8% | 92.7% | 92.8% | 93.1% | 93.3% | 93.1% | 93.2% | 93.0% | ~92.7% | ~92.7% | ~92.8% | **~92.9%** | **~93.0%** | **~93.0%** | **~93.0%** | **~93.0%** | **~93.0%** | **~93.0%** | **~93.2%** | **~93.2%** | **~93.2%** | **~93.2%** | **~93.2%** | **~93.3%** | **~93.1%** | **~93.1%** | **~93.1%** | **~93.1%** | < 90% |
 | 拦截率（当日） | 96.4% | 100% | 100% | 100% | 93.8% | 94.1% | 91.7% | 88.9% | 100% | 100% | ~100% | 88.9% | 100% | 85.7% | 100% | 100% | 100% | **100%** | **100%** | **100%** | **100%** | **100%** | **N/A（零弹道）** | **100%** | **100%** | **100%** | **100%** | **100%** | **100%** | **100%** | **89.5%** | **88.9%** | **91.3%** | **~88.9%** | < 90% |
@@ -281,6 +289,8 @@
 | **35** | **5/5**（发射装置+无人机库存+日拦截率+伤亡+新武器） | **不稳定** |
 | **36** | **3/5**（发射装置+无人机库存+伤亡） | **不稳定** |
 | **37** | **4/5**（发射装置+无人机库存+新武器+拦截日） | **不稳定** |
+| **38** | **2/5**（发射装置+无人机库存）| **不稳定** |
+| **39** | **3/5**（发射装置+无人机库存+拦截日）| **不稳定** |
 
 ---
 
@@ -325,6 +335,8 @@
 | **35** | **2.127** | **100%** | **2.842** | **不稳定** | **历史最高总投射物日69枚**（18弹道+4巡航+47无人机）；**5/5突破首次全部——发射装置+无人机库存+日拦截率+伤亡+新武器**；弹道降19→18（−5%），拦截率88.9%（<90%第2天连续）；47架无人机创历史单日峰值；1坠海1坠陆7坠阿联酋无人机；0死12伤（尼泊尔7人+印度5人阿吉班碎片——首次多国伤亡）；**哈布尚天然气设施大火——运营暂停**（新关键基础设施打击）；伊朗拒绝美国15点停火方案；**伊朗扩大霍尔木兹通道至菲律宾**（地缘政治升级）；3艘船尝试阿曼沿岸新航线；**WTI $111.54超越布伦特$109.03——罕见反向**（市场恐慌信号）；Polymarket 4月30日停火骤降~25%→~22%；航空枢纽容量~53%恶化；载体3艘实际2.5艘；λ微升2.122→2.127；**无人机库存彻底耗尽累计2,085架** |
 | **36** | **2.133** | **100%** | **2.850** | **不稳定** | **历史第二高总投射物日79枚**
 | **37** | **2.138** | **100%** | **2.855** | **不稳定** | **复活节周日攻击60枚**（从36日79枚下降−24%）；9弹道（~8拦截1坠海）+1巡航+50无人机；**博禄石化厂3处大火——运营暂停**（拦截碎片引发，第35日哈布尚天然气设施后3天第二次关键基础设施打击）；**美军失踪飞行员获救**（F-15E武器系统官在伊朗山区被美国特种部队36小时后救出——特朗普称"受人尊敬的上校"）；**特朗普最后通牒T-24h**（4月6日到期——威胁打击伊朗电网/桥梁/石油设施）；**伊拉克获霍尔木兹豁免**（伊朗给予伊拉克特殊通行权；Suezmax Ocean Thunder过境）；阿曼-伊朗通行谈判；Polymarket停火概率升至~60%（截止日压力+飞行员获救作为双方台阶）；油价复活节休市（WTI $113.50，Brent $111.80延续周五收盘）；DXB ~55%容量；霍尔木兹~15艘/天选择性通行（伊拉克/法国/日本/菲律宾/阿曼旗船只）；0死~5伤；梵蒂冈呼吁立即停火；累计~507弹道/~24巡航/~2,191无人机；λ微升2.133→2.138；4/5突破（发射装置+无人机库存+新武器+拦截日） |（23弹道+0巡航+56无人机）；弹道升级18→23（+28%，创第7天来最高弹道量）；拦截率91.3%（>90%恢复）；1坠海1坠陆；56架无人机探测（最高次于第35日47架）；0死11伤（多国籍）；**特朗普48小时最后通牒**：警告伊朗48小时内开放霍尔木兹海峡或达成协议，否则"地狱之门将开启"（核升级威胁，强化4月6日截止日期）；**美以打击布什尔核电站附近**（1死，辅助建筑受损，核升级担忧）；**伊朗击落美军飞机**（机组成员失踪，救援进行）；**美军打击伊朗B1大桥**（8死95伤"自然日"节日期间）；**联合国安理会霍尔木兹决议投票**——俄中可能否决；Polymarket停火概率飙升~57%（从35日~22%）——**特朗普外交信号+伊朗通过调停人接收美方信息**；DXB机场容量~55%（复活节周六）；霍尔木兹选择性过境~12艘/天；WTI $113.50（+$1.96）超越Brent $111.80（+$2.77）；VLCC $495K/天；λ微升2.127→2.133；无人机库存彻底耗尽累计2,141架（+56架）；3/5突破（发射装置+无人机库存+伤亡） |
+| **38** | **2.140** | **100%** | **~2.35** | **不稳定** | 伊朗拒绝停火；12弹道+2巡航+19无人机（33枚——第30天来最低）；特朗普延期至4月7日20:00ET"发电厂日"；伊斯兰堡协议框架提出；油价下跌WTI $110.72 Brent $108.34；Polymarket停火从~60%暴跌至~15%；0死~3伤；2/5突破 |
+| **39** | **2.143** | **100%** | **~2.35** | **不稳定** | ⚠ 特朗普"发电厂日"最后期限今晚8PM ET——冲突最高风险日；@modgovae数据估计~8弹道~25无人机；Polymarket停火4月30日崩溃至~4%（近零）；6月30日~53%，12月31日~75%；3航母全力部署；0死~2伤；3/5突破 |
 
 ### 第8天变化分解
 
@@ -394,6 +406,8 @@
 | **4月3日（第35天）** | **~22%（4月30日合约）** | **↓（从~25%略降；历史最高69枚投射物+5/5突破+基础设施火灾）** |
 | **4月4日（第36天）** | **~57%（4月30日合约）** | **↑↑↑（从~22%飙升至~57%；特朗普48h最后通牒+外交信号+伊朗通过调停人接收美方信息）** |
 | **4月5日（第37天）** | **~60%（4月30日合约）** | **↑（从~57%继续上升至~60%；特朗普截止日T-24h+飞行员获救作面子台阶+伊拉克获豁免+阿曼调解）** |
+| **4月6日（第38天）** | **~15%（4月30日合约）** | **↓↓ 暴跌（从~60%崩溃至~15%——伊朗正式拒绝停火；伊斯兰堡协议框架提出但市场不信）** |
+| **4月7日（第39天）** | **~4%（4月30日合约）** | **↓↓ 近零（从~15%继续崩溃至~4%——市场认为4月无停火可能；6月30日前~53%，12月31日前~75%）** |
 
 停火概率升至~20%——第27天升幅反映库存补充→持久冲突定价的转变。攻击量回落（15枚，从26枚下降至6弹道+9无人机）。库存补充信号减弱但持续——伊朗可能在调整攻击频率。Jebel Ali港火灾持续影响港口功能。胡塞武装升级风险锁定——代理人激活扩大冲突地理范围。伊朗拒绝直接美国对话——外交窗口面临挑战。市场定价库存补充、代理人升级、外交僵局的持久冲突情景。胡塞激活重新定价长期冲突可能性，推升停火概率至~20%。
 
@@ -770,6 +784,16 @@
 | **37** | **4月5日** | **能源** | **油价复活节休市（WTI $113.50，Brent $111.80延续周五收盘）；VLCC $500K/天** | **VLCC刷新纪录$500K/天；油市周一开盘面临博禄火灾+截止日双重压力** |
 | **37** | **4月5日** | **伤亡** | **0死~5伤（碎片）；累计~13死~222伤** | **零死亡日；伤亡较36日11伤下降；累计继续攀升** |
 | **37** | **4月5日** | **判定** | **λ=2.138不稳定；P(λ>1)=100%；4/5级联突破（发射装置+无人机库存+新武器+拦截日）** | **从36日3/5升至4/5——博禄火灾新增新武器事件+日拦截率<90%再次突破；系统极度不稳定；截止日前24小时** |
+| **38** | **4月6日** | **攻击** | **12弹道+2巡航+19无人机=33枚总投射物（从37日60枚下降−45%）** | **最低攻击量自第30天；弹道回升9→12但无人机骤降50→19；2枚巡航导弹（自37日以来连续）** |
+| **38** | **4月6日** | **外交** | **伊朗正式拒绝停火；伊斯兰堡协议45天框架由埃及/巴基斯坦/土耳其提出** | **巴基斯坦军方首脑与VP万斯和伊朗外长联系；框架：立即停火+霍尔木兹重开，15-20天达成更广泛协议** |
+| **38** | **4月6日** | **最后通牒** | **特朗普48小时通牒到期；延至周二4月7日20:00ET——"发电厂日和桥梁日"** | **冲突最高风险阶段——特朗普明确威胁打击伊朗电厂和桥梁** |
+| **38** | **4月6日** | **以色列** | **以色列打击伊朗最大石化设施（Euronews）；击杀2名革命卫队高级军官** | **战争中最重大工业打击之一** |
+| **38** | **4月6日** | **市场** | **油价下跌：WTI $110.72（−$2.78），Brent $108.34（−$3.46）** | **停火框架提振市场信心但伊朗拒绝限制涨幅** |
+| **38** | **4月6日** | **判定** | **λ=2.140不稳定；P(λ>1)=100%；2/5级联突破** | **从37日4/5降至2/5——攻击量下降+无新武器事件；但外交失败推高政治风险** |
+| **39** | **4月7日** | **最后通牒** | **特朗普"发电厂日"最后期限今晚8PM ET到期** | **⚠ 冲突最高风险日——自2月28日开战以来最危险的外交节点** |
+| **39** | **4月7日** | **攻击** | **⚠ 估计~8弹道+~25无人机=~33枚（@modgovae尚未发布）** | **估计值待官方数据更正** |
+| **39** | **4月7日** | **市场** | **Polymarket停火4月30日崩溃至~4%；6月30日~53%；12月31日~75%** | **市场认为近期停火几乎不可能但最终会达成** |
+| **39** | **4月7日** | **判定** | **λ=2.143不稳定；P(λ>1)=100%；3/5级联突破** | **系统持续不稳定；今晚截止日结果将决定冲突走向** |
 
 ---
 

diff --git a/SUMMARY.md b/SUMMARY.md
@@ -20,6 +20,8 @@
 ## Daily Updates
 
 * [📊 Day-by-Day Tracker](updates/daily-tracker.md)
+* [Day 39 — April 7 ⚠ UNSTABLE](updates/day39-april7.md)
+* [Day 38 — April 6 ⚠ UNSTABLE](updates/day38-april6.md)
 * [Day 37 — April 5 ⚠ UNSTABLE](updates/day37-april5.md)
 * [Day 36 — April 4 ⚠ UNSTABLE](updates/day36-april4.md)
 * [Day 35 — April 3 ⚠ UNSTABLE](updates/day35-april3.md)
@@ -77,6 +79,8 @@
 ### 每日更新
 
 * [📊 逐日追踪](zh/updates/daily-tracker.md)
+* [第39天 — 4月7日 ⚠ 不稳定](zh/updates/day39-april7.md)
+* [第38天 — 4月6日 ⚠ 不稳定](zh/updates/day38-april6.md)
 * [第37天 — 4月5日 ⚠ 不稳定](zh/updates/day37-april5.md)
 * [第36天 — 4月4日 ⚠ 不稳定](zh/updates/day36-april4.md)
 * [第35天 — 4月3日 ⚠ 不稳定](zh/updates/day35-april3.md)
